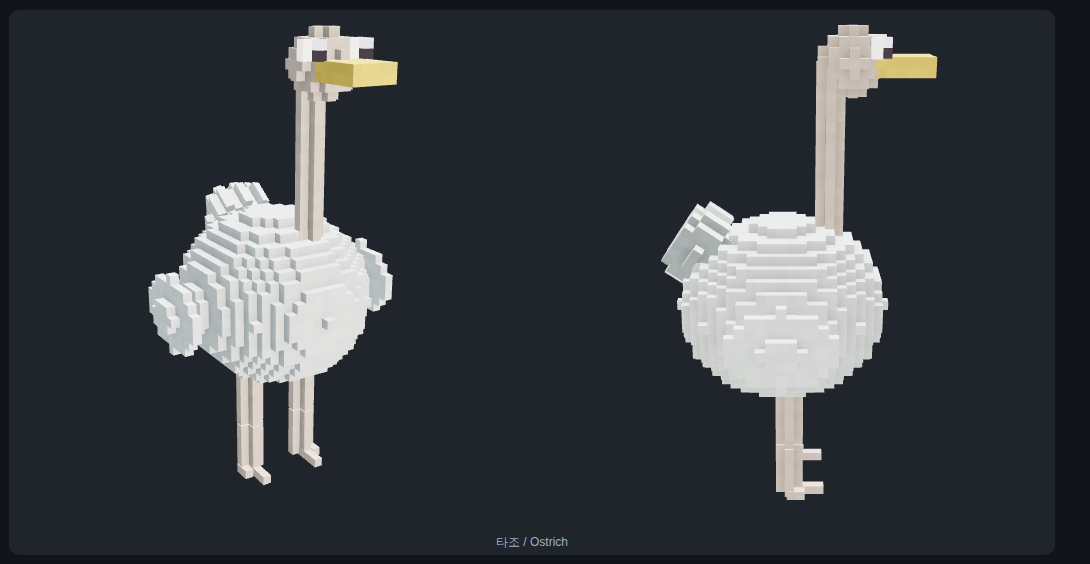
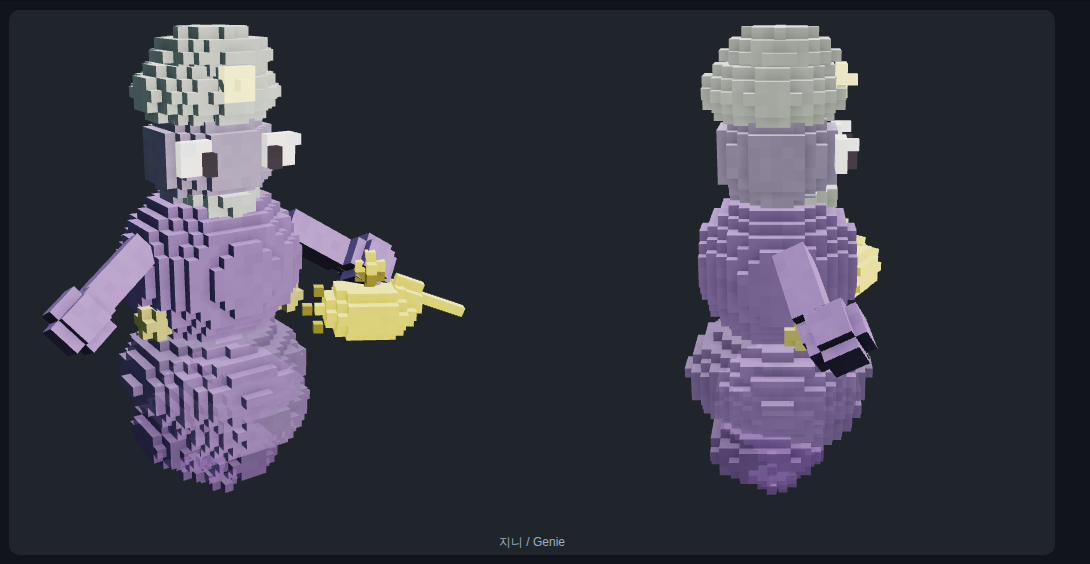
지니에 요술 램프를 쥐어 줬다 (pet-species-recognizable ㉢)
블라인드 채점 교집합 지적: 연기·터번·수염만으로는 애벌레·문어로 읽혔다 —
"램프 없는 지니는 지니로 안 읽힌다". 앞쪽 아래에 띄운 램프를 붙였다:
납작한 몸통 + 위로 든 주둥이(램프를 램프로 만드는 단 하나의 실루엣) +
⊃ 자 손잡이 + 뚜껑 꼭지. 게임 3/4 각에서 카메라 쪽으로 걸리는 자리.

Changed region(s): [[0.0312, 0.0301, 0.4367, 0.8741], [0.5927, 0.0301, 0.8734, 0.9043], [0.4367, 0.9344, 0.5303, 0.9947]]

diff --git a/web/js/scene3d.js b/web/js/scene3d.js
@@ -10392,6 +10392,27 @@ const Scene3D = {
                     jt(sh, 'x', 0.4, s > 0 ? 0 : Math.PI, { f: 1.5, gain: 1.5 });     // 느긋한 팔 흔들기
                     jt(sh, 'z', s * 0.2, s * 1.3, { f: 1.1, gain: 1.5 });
                 }
+                // ⓓ 🪔 요술 램프 — 교집합 지적 ㉢: *"램프 없는 지니는 지니로 안 읽힌다."* 두 비평가가
+                //    독립적으로 애벌레·문어·소프트아이스크림으로 답했다. 연기·터번·수염만으로는
+                //    '보라 정령'까지고, **램프가 있어야 지니로 확정**된다. 앞쪽 아래(연기 옆)에 띄운다 —
+                //    게임 3/4 각(요 0.55)에서 카메라 쪽으로 걸리는 자리다. 몸통·주둥이·손잡이·뚜껑 꼭지.
+                const lamp = pv(0.20, 0.28, 0.10);
+                lamp.rotation.y = -0.5;                                    // 주둥이를 카메라 쪽으로
+                into(lamp, () => {
+                    const GOLD = M(0xffd54f, { emissive: 0x6b5300, emissiveIntensity: 0.45 });
+                    const GOLD_D = M(0xd4a017);
+                    sp(0.062, 0, 0, 0, GOLD, 1.25, 0.78, 1);              // 납작한 램프 몸통
+                    // 주둥이 — 앞으로 길게 뻗어 위로 살짝 든 원뿔. 램프를 램프로 만드는 단 하나의 실루엣.
+                    const spout = cn(0.026, 0.11, 0.085, 0.012, 0, GOLD);
+                    spout.rotation.z = -Math.PI / 2 - 0.35;
+                    // 손잡이 — 뒤쪽 고리. 큐브 세 칸을 ⊃ 자로 세워 '잡는 곳'을 만든다(열린 링).
+                    for (const [dx, dy] of [[-0.072, 0.028], [-0.088, 0], [-0.072, -0.028]])
+                        bx(0.016, 0.020, 0.018, dx, dy, 0, GOLD_D);
+                    // 뚜껑 꼭지 — 위 한복판의 작은 구. 찻주전자로 안 읽히게 뚜껑을 명시한다.
+                    sp(0.020, 0, 0.05, 0, GOLD_D);
+                    cn(0.014, 0.030, 0, 0.072, 0, GOLD);
+                });
+                jt(lamp, 'y', 0.25, 0.4, { f: 0.8 });                      // 살짝 흔들려 떠 있는 느낌
                 break;
             }
             case 'Baby Dragon': { // 날개 + 뿔 + 관절 목·두 다리·꼬리
